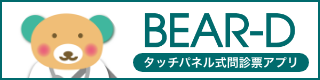
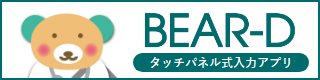
text fix

Changed region(s): [[0.4375, 0.7, 0.9375, 0.85]]

diff --git a/index.html b/index.html
@@ -28,12 +28,11 @@
         </section>
         <section class="overview">
             <div class="content">
-                <!-- <span>OVERVIEW</span><br> -->
                 <h2>BEAR-Dとは</h2>
                 <p>
-                    「BEAR-D iPad問診票アプリ」は、診療までにかかる待ち時間負担を軽減させるため、<br>
-                    iPadの先進機能を活かし開発したアプリケーションです。<br>
-                    様々なニーズにあわせ、利用者側で自由に問診票を作成できます。<br>
+                    「BEAR-D 入力アプリ」は、診療までにかかる待ち時間負担を軽減させるため、<br>
+                    先進機能を活かし開発したアプリケーションです。<br>
+                    スクリーニングやスコア、リスク計算や問診、アンケート等様々なニーズにあわせ、利用者側で自由に入力内容を作成できます。<br>
                     さらに、電子カルテとの連携により、患者さまの受診リストを受け取り結果を送ることも可能です。
                 </p>
             </div>
@@ -61,10 +60,10 @@
                     <h4>
                         <span>01</span><br>
                         病院、診療所のニーズにあわせて<br>
-                        自由な問診票作成が可能
+                        自由に入力内容の作成が可能
                     </h4>
                     <p>
-                        病院や診療所によって異なる様々なフローや診療科目にあわせて独自に問診票を作成することが可能です。<br>
+                        病院や診療所によって異なる様々なフローや診療科目にあわせて独自に入力内容を作成することが可能です。<br>
                         様々な条件設定が可能なので、患者様に応じたきめ細かい質問を短時間で行うことが可能です。
                     </p>
                 </div>
@@ -93,8 +92,8 @@
                         様々な電子カルテとの連動
                     </h4>
                     <p>
-                        問診結果はXMLデータとして保存されるため、<br class="tb-none">電子カルテとの連動も簡単に行うことができます。<br>
-                        電子カルテには、問診結果をテンプレートデータとして格納することで、DWHなどの分析システムを通して二次利用も容易に行えます。
+                        入力結果はXMLデータとして保存されるため、<br class="tb-none">電子カルテとの連動も簡単に行うことができます。<br>
+                        電子カルテには、入力結果をテンプレートデータとして格納することで、DWHなどの分析システムを通して二次利用も容易に行えます。
                     </p>
                 </div>
                 <div class="explain-img three"></div>
@@ -102,7 +101,6 @@
         </section>
         <section class="flow">
             <div class="content tb-content">
-                <!-- <span>FLOW</span><br> -->
                 <h2>受付から電子カルテまでの流れ</h2>
                 <div class="flow-img"></div>
             </div>
@@ -110,20 +108,19 @@
         <section class="custom">
             <div class="content custom-sp-content tb-content">
                 <div class="custom-sp-content-text">
-                    <!-- <span>CUSTOM</span><br> -->
-                    <h2>自由な問診票作成</h2>
+                    <h2>自由な入力内容の作成</h2>
                     <p>
-                        それぞれの病院や診療科に合わせて、自由に問診票を作成できます。<br>
-                        例えば特殊診療や新型インフルエンザのように急な対応が要請される場合でも、<br class="sp-none">
-                        すぐに問診票を作成して対応することができます。
+                        それぞれの病院や診療科に合わせて、自由に入力内容が作成できます。<br>
+                        例えば特殊診療や新型インフルエンザのように急な対応が要請される場合でも、 <br class="sp-none">
+                        すぐに作成して使用することもできます
                     </p>
                 </div>
                 <div class="custom-box">
                     <div class="custom-box-img cb-img1"></div>
                     <div class="custom-box-text">
                         <p>
-                            問診票は<span>複数作成</span>することができます。<br>
-                           また、患者様にあわせて、複数の問診票を同時に指定して回答させることも可能です。
+                            入力用の帳票は<span>複数作成</span>することができます。<br>
+                            また、患者様にあわせて、複数の帳票を同時に指定して回答させることも可能です
                         </p>
                     </div>
                 </div>
@@ -140,7 +137,6 @@
         </section>
         <section class="interface">
             <div class="content tb-content">
-                <!-- <span>INTERFACE</span><br> -->
                 <h2>インターフェース</h2>
                 <div class="interface-content-box">
                     <div class="interface-content-box-img sp-none">
@@ -197,7 +193,6 @@
         </section>
         <section class="performance">
             <div class="content tb-content">
-                <!-- <span>PERFORMANCE</span><br> -->
                 <h2>地域別導入実績数</h2>
                 <div class="performance-content-img"></div>
                 <p class="performance-sp">全国１６９施設にて稼働中（カスタマイズ案件含む） （H29年3月末時点）</p>
@@ -205,7 +200,6 @@
         </section>
         <!-- <section class="join temp-none">
             <div class="join-content">
-                <span>JOIN US</span><br>
                 <h2>導入事例</h2>
                 <div class="join-content-wrap">
                     <div class="join-content-wrap-img">

diff --git a/css/main.css b/css/main.css
@@ -122,7 +122,7 @@
 }
 .content {
     margin: 0 auto;
-    width: 72%;
+    width: 74%;
     text-align: center;
     padding: 30px 0;
 }
@@ -360,13 +360,10 @@
 }
 
 /* section class="join */
-.temp-none {
-    display: none;
-}
-/* .join {
+.join {
     width: 100%;
-    height: 60vh;
-    background-color: azure;
+    height: auto;
+    padding-top: 15px;
 }
 .join-content {
     width: 60%;
@@ -433,7 +430,7 @@
     background-size: cover;
     background-repeat: no-repeat;
     background-position: center;
-}  */
+} 
 
 /* section class="footer" */
 .footer {
